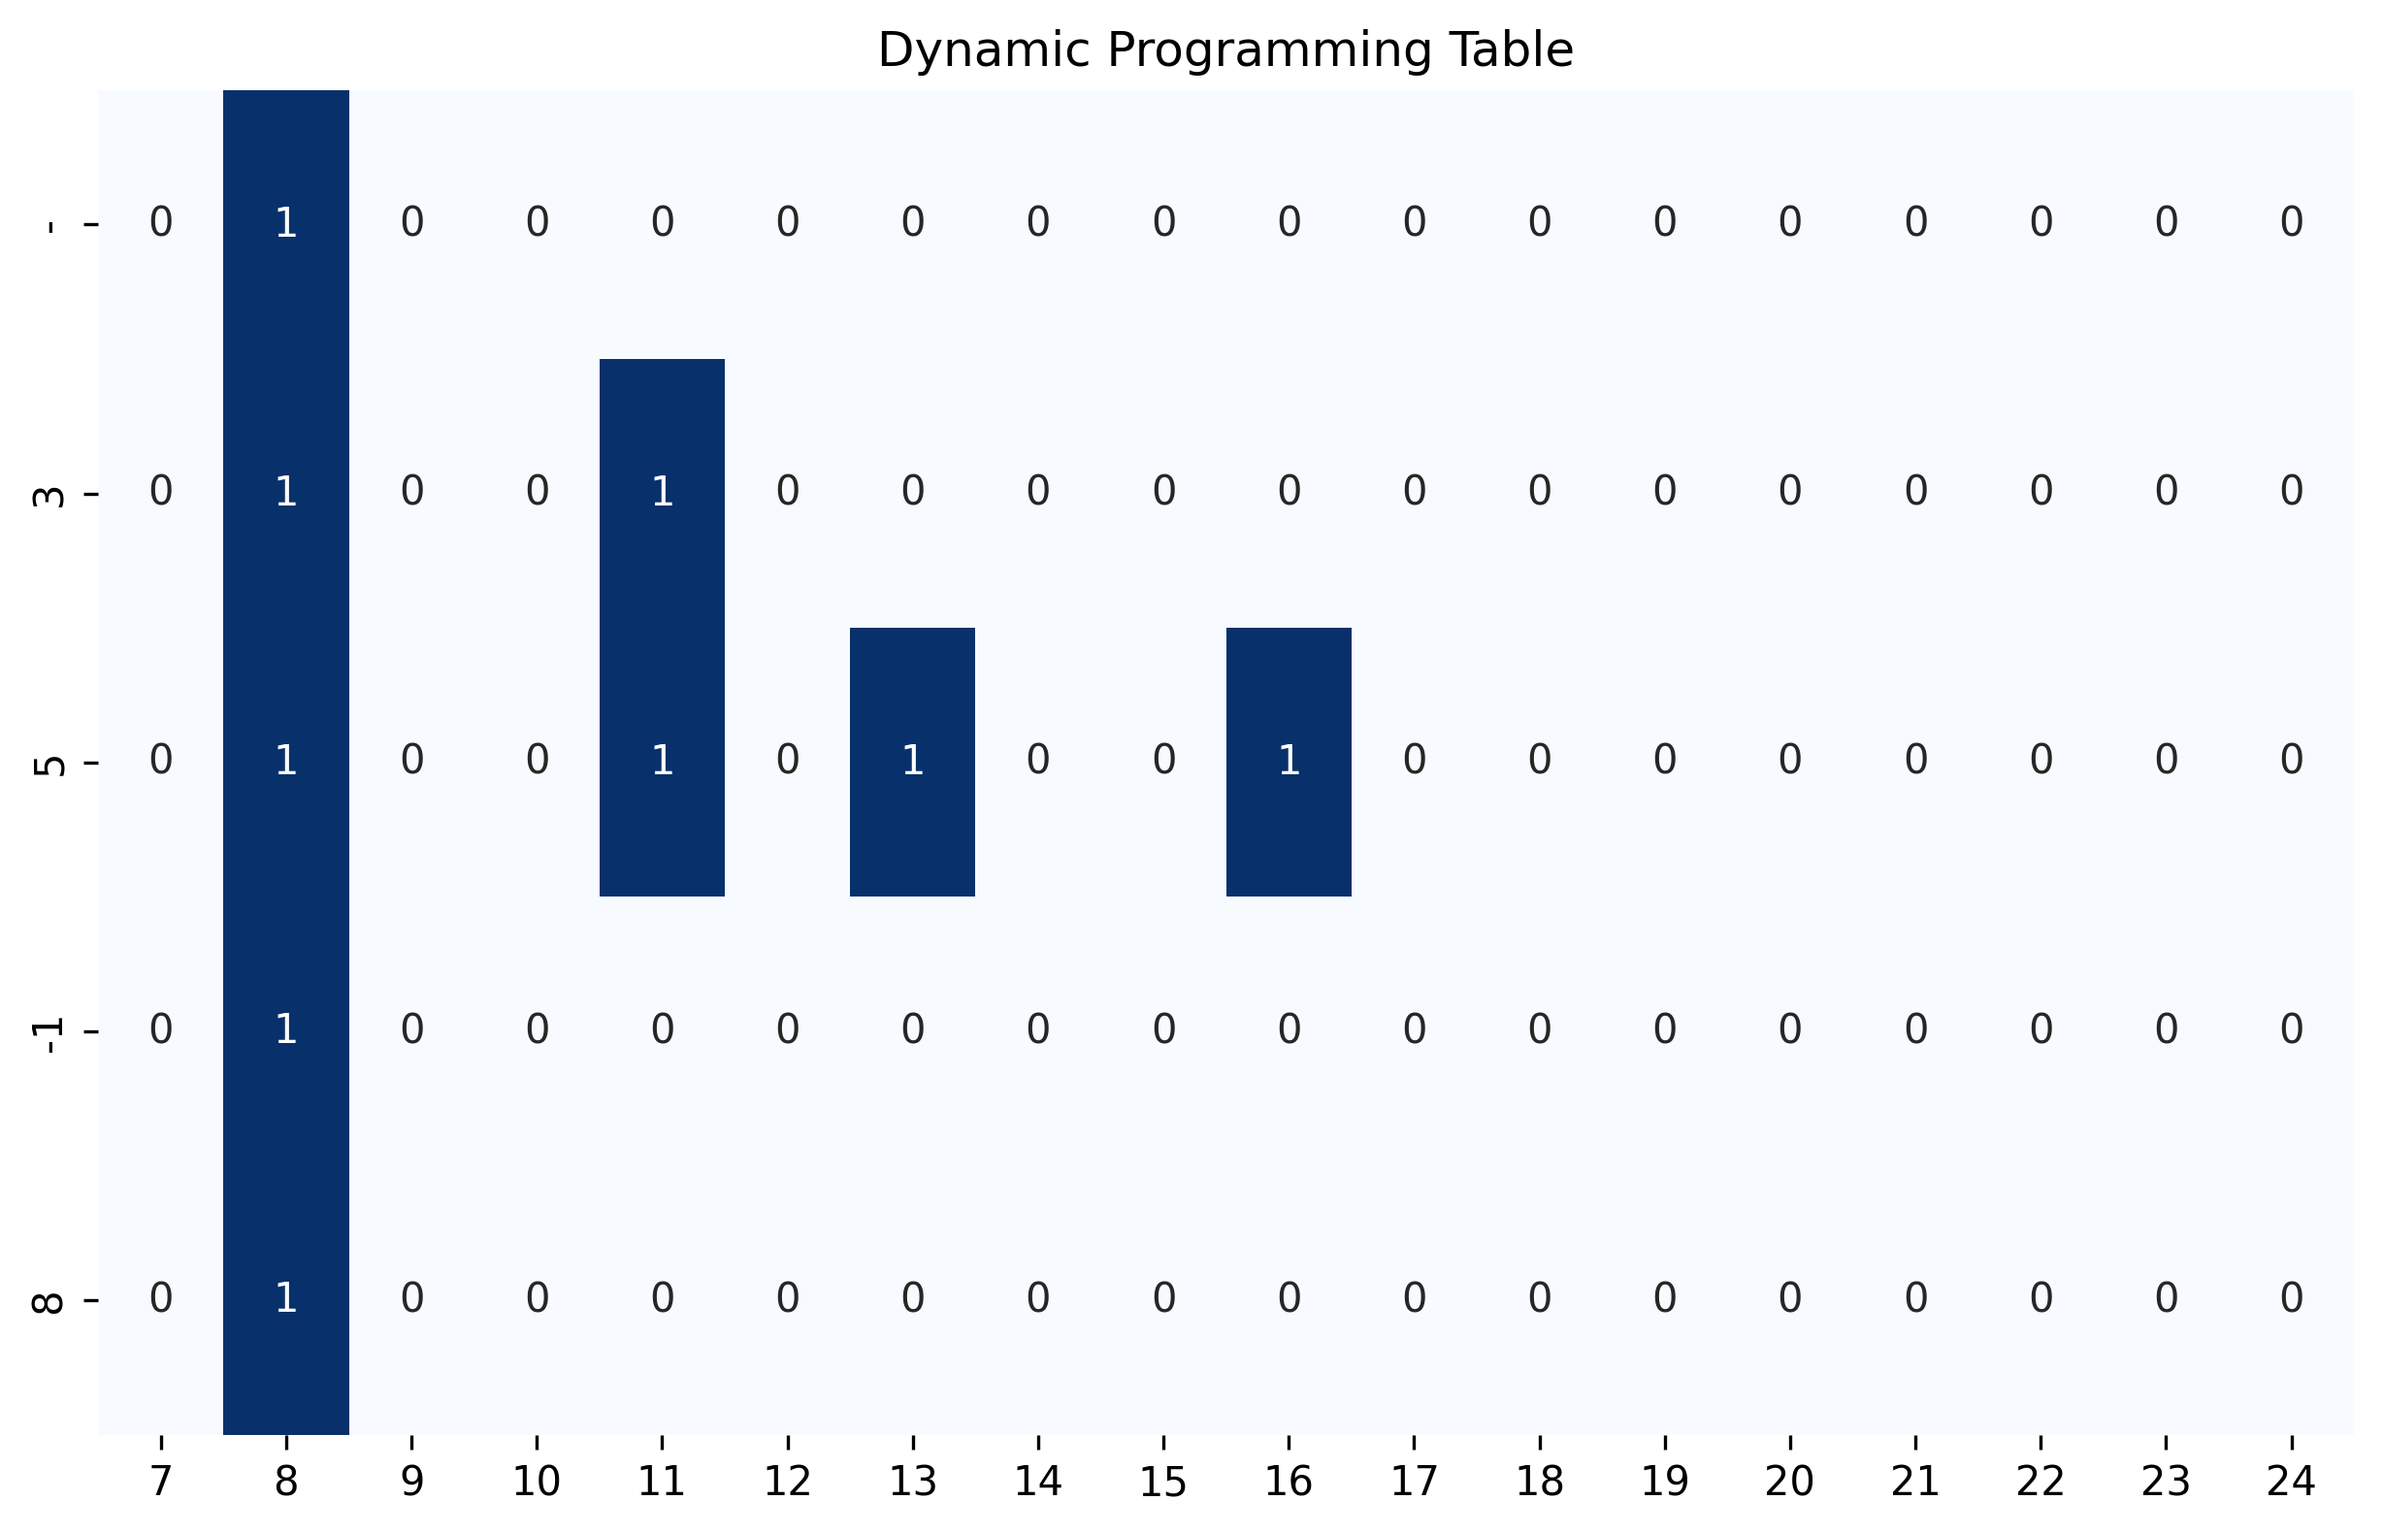
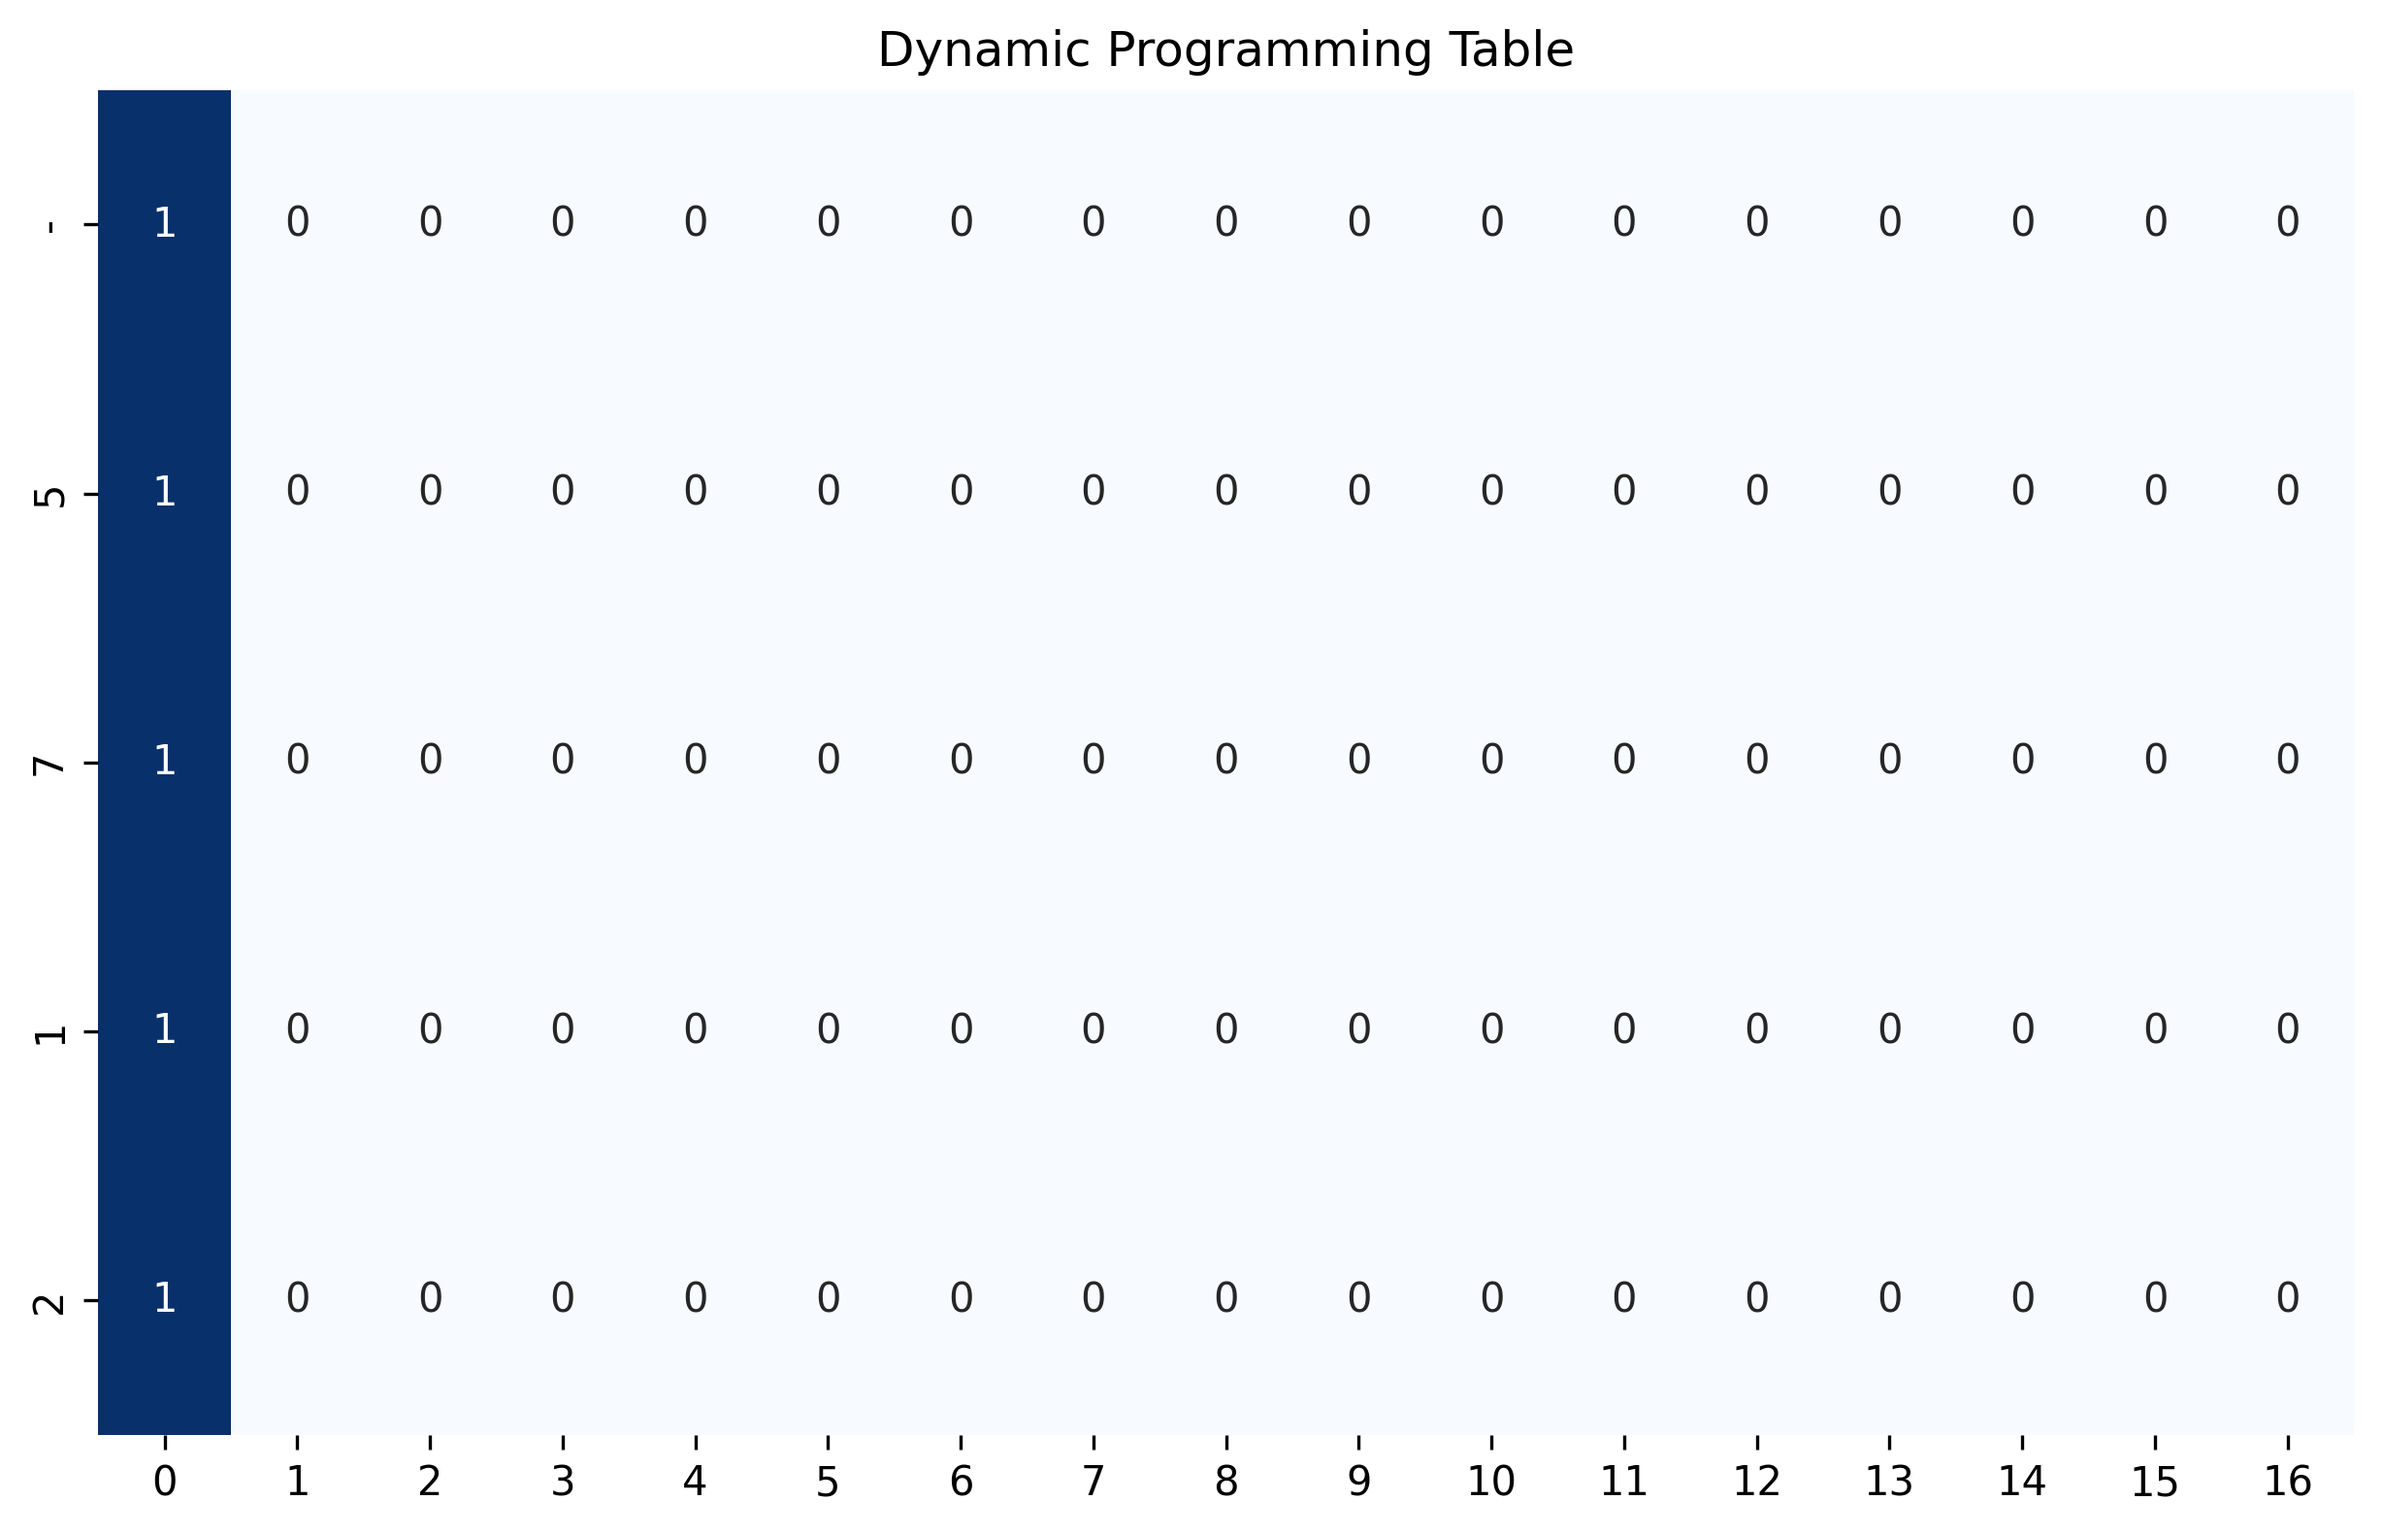
:sparkles: Added some exercises

diff --git a/assessments/03/parallal_sums.py b/assessments/03/parallal_sums.py
@@ -1,0 +1,74 @@
+# This dp_helper function checks if there is any subset of arr that the sum of subset is 'target',
+# and the length of the subset is 'count'.
+# It uses memoization 'memo' to avoid duplicate calculation, and makes the algorithm O(n*m)
+def dp_helper(arr, idx: int, target: int, count: int, memo: dict) -> bool:
+    if target == 0 and count == 0:
+        return True
+
+    if idx < 0 or target < 0 or count < 0:
+        return False
+
+    if (idx, target, count) in memo:
+        return memo[(idx, target, count)]
+
+    include = dp_helper(arr, idx - 1, target - arr[idx], count - 1, memo)
+    exclude = dp_helper(arr, idx - 1, target, count, memo)
+
+    memo[(idx, target, count)] = include or exclude
+
+    return memo[(idx, target, count)]
+
+
+# This reconstruct_sets function uses a memo dictionary to determine which elements belong to each subset.
+def reconstruct_sets(arr, target: int, count: int, memo: dict):
+    set1, set2 = [], []
+
+    n = len(arr)
+    w = target
+    c = count
+
+    for i in range(n - 1, -1, -1):
+        if not dp_helper(arr, i - 1, w, c, memo):
+            set1.append(arr[i])
+            w -= arr[i]
+            c -= 1
+        else:
+            set2.append(arr[i])
+
+    return set1, set2
+
+
+def ParallelSums(arr):
+    n = len(arr)
+    total_sum = sum(arr)
+
+    # return -1 if the sum is not even 'cause not possible
+    if total_sum % 2 != 0:
+        return -1
+
+    # the target sum would be the half of the total sum
+    target_sum = total_sum // 2
+    count = n // 2
+
+    memo = {}
+
+    if not dp_helper(arr, n - 1, target_sum, count, memo):
+        return -1
+
+    set1, set2 = reconstruct_sets(arr, target_sum, count, memo)
+
+    # sort the subsets
+    set1.sort()
+    set2.sort()
+
+    if len(set1) == 0 or len(set2) == 0:
+        return -1
+
+    if set1[0] < set2[0]:
+        return ','.join(map(str, set1 + set2))
+    else:
+        return ','.join(map(str, set2 + set1))
+
+
+# keep this function call here
+print(ParallelSums(input()))

diff --git a/assessments/03/array_addition_i.py b/assessments/03/array_addition_i.py
@@ -1,0 +1,48 @@
+# Have the function ArrayAdditionI(arr) take the array of numbers
+# stored in arr and return the string true if any combination of numbers in the array (excluding the largest number)
+# can be added up to equal the largest number in the array,
+# otherwise return the string false.
+# For example: if arr contains [4, 6, 23, 10, 1, 3]
+# the output should return true because 4 + 6 + 10 + 3 = 23.
+# The array will not be empty, will not contain all the same elements, and may contain negative numbers.
+
+# Examples
+# Input: [5,7,16,1,2]
+# Output: false
+# Input: [3,5,-1,8,12]
+# Output: true
+
+def ArrayAdditionI(arr):
+    largest_number = max(arr)
+    arr.remove(largest_number)
+
+    minimum_sum = sum(x for x in arr if x < 0)
+    maximum_sum = sum(x for x in arr if x > 0)
+
+    dpt_offset = abs(minimum_sum)
+    maximum_index = max(abs(largest_number), abs(maximum_sum), abs(minimum_sum)) * 2 + 1
+
+    array_length = len(arr)
+    dpt = [[True if x == dpt_offset else False for x in range(maximum_index)] for _ in range(array_length + 1)]
+
+    for y in range(1, array_length + 1):
+        for x in range(maximum_index):
+            dpt[y][x] = dpt[y - 1][x]  # 현재 원소를 사용하지 않는 경우
+
+            # 현재 원소를 사용하는 경우
+            if 0 <= x - arr[y - 1] < maximum_index:
+                dpt[y][x] = dpt[y][x] or dpt[y - 1][x - arr[y - 1]]
+
+    return dpt[array_length][largest_number + dpt_offset]
+
+
+# print(ArrayAdditionI([5, 7, 16, 1, 2]))  # 출력: false
+# print(ArrayAdditionI([3, 5, -1, 8, 12]))  # 출력: true
+# print(ArrayAdditionI([1, 2, 3, 4]))  # 출력: true
+# print(ArrayAdditionI([0, -1]))  # 출력: true
+# print(ArrayAdditionI([-1, -42, 4012, 432, 1]))  # 출력: false
+# print(ArrayAdditionI([2, -3, -4, 27, 6, 10, -29, 54]))  # 출력: false
+
+print(ArrayAdditionI([13, -1, -5, -8, -10, 11]))  # false
+print(ArrayAdditionI([8, -2, 7, -4, -6, -7, 9]))  # true
+print(ArrayAdditionI([20, -6, -9, -12, 17, 22]))  # true

diff --git a/assessments/03/print_dpt.py b/assessments/03/print_dpt.py
@@ -1,0 +1,28 @@
+import pandas as pd
+import matplotlib.pyplot as plt
+import seaborn as sns
+import os
+
+
+def save_dp_table_as_image(arr, dp_table, filename="dp_table.png"):
+    # If the file already exists, delete it
+    if os.path.exists(filename):
+        os.remove(filename)
+
+    # Convert the DP table to a DataFrame for visualization
+    df = pd.DataFrame(dp_table)
+
+    # Set column and row names for the DataFrame
+    max_sum = sum([x for x in arr if x > 0])
+    min_sum = sum([x for x in arr if x < 0])
+    df.columns = list(range(min_sum, max_sum + 2))
+    df.index = ["-"] + arr  # Include all numbers in the array for the row labels
+
+    # Plot the heatmap
+    plt.figure(figsize=(10, 6))
+    sns.heatmap(df, cmap="Blues", cbar=False, annot=True, fmt="d")
+    plt.title("Dynamic Programming Table")
+    plt.savefig(filename, bbox_inches='tight', dpi=300)
+    plt.close()
+
+

diff --git a/my_exercises/sort/selection_sort.py b/my_exercises/sort/selection_sort.py
@@ -1,0 +1,16 @@
+def selection_sort(array):
+    for i in range(0, len(array)):
+        print(array)
+        index_of_minimum = i
+
+        for j in range(i + 1, len(array)):
+            if array[j] < array[index_of_minimum]:
+                index_of_minimum = j
+
+        array[i], array[index_of_minimum] = array[index_of_minimum], array[i]
+
+    return array
+
+
+arr1 = [7, -30, 3, 6, 2, 90]
+print(selection_sort(arr1))

diff --git a/my_exercises/recursion/subset_string_recursion.py b/my_exercises/recursion/subset_string_recursion.py
@@ -1,0 +1,14 @@
+def subset_string_recursion(string, out):
+    if len(string) == 0:
+        print(out)
+        return
+
+    # string을 other_out과 string으로 분리
+    other_out = out + string[0]
+    string = string[1:len(string)]
+
+    subset_string_recursion(string, other_out)
+    subset_string_recursion(string, out)
+
+
+subset_string_recursion("qwerty", "")

diff --git a/my_exercises/sort/insertion_sort.py b/my_exercises/sort/insertion_sort.py
@@ -1,0 +1,15 @@
+def insertion_sort(array):
+    for i in range(1, len(array)):
+        target = array[i]
+
+        j = i - 1
+        while 0 <= j and target <= array[j]:
+            array[j + 1] = array[j]
+            j -= 1
+
+        array[j + 1] = target
+    return array
+
+
+arr1 = [5, 2, 4, 7, 1, 3, 2, 6]
+print(insertion_sort(arr1))

diff --git a/my_exercises/sort/quick_sort.py b/my_exercises/sort/quick_sort.py
@@ -33,5 +33,6 @@ def partition(array, l, h):
 
 
 array1 = [6, 8, 2, 7, 7, 1]
-quick_sort(array1, 0, len(array1) - 1)
-print(array1)
+array2 = [5, 2, 4, 7, 1, 3, 2, 6]
+quick_sort(array2, 0, len(array2) - 1)
+print(array2)

diff --git a/my_exercises/recursion/factorial_recursion.py b/my_exercises/recursion/factorial_recursion.py
@@ -1,0 +1,8 @@
+def factorial_recursion(n):
+    if n == 0:
+        return 1
+
+    return n * factorial_recursion(n - 1)
+
+
+print(factorial_recursion(5))
